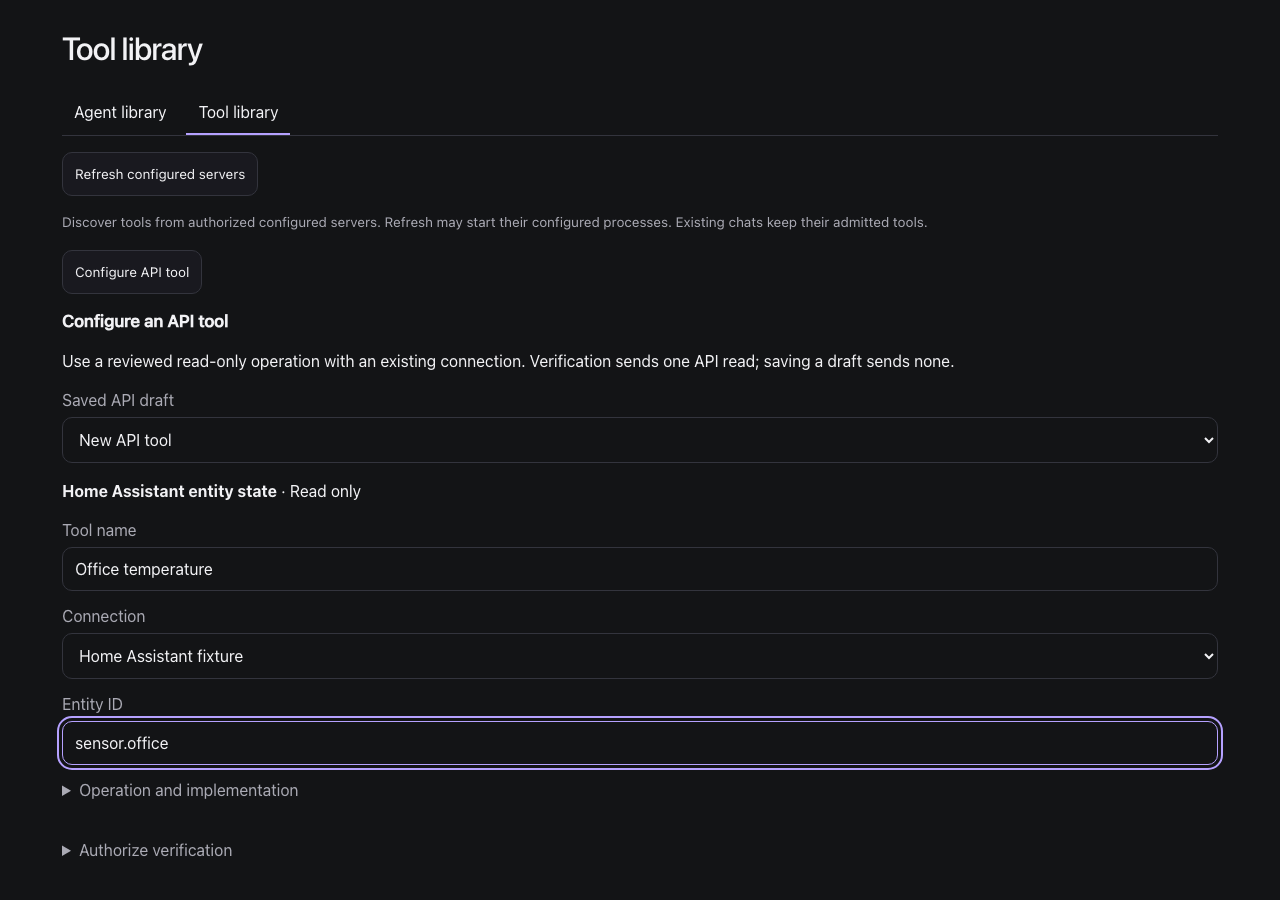
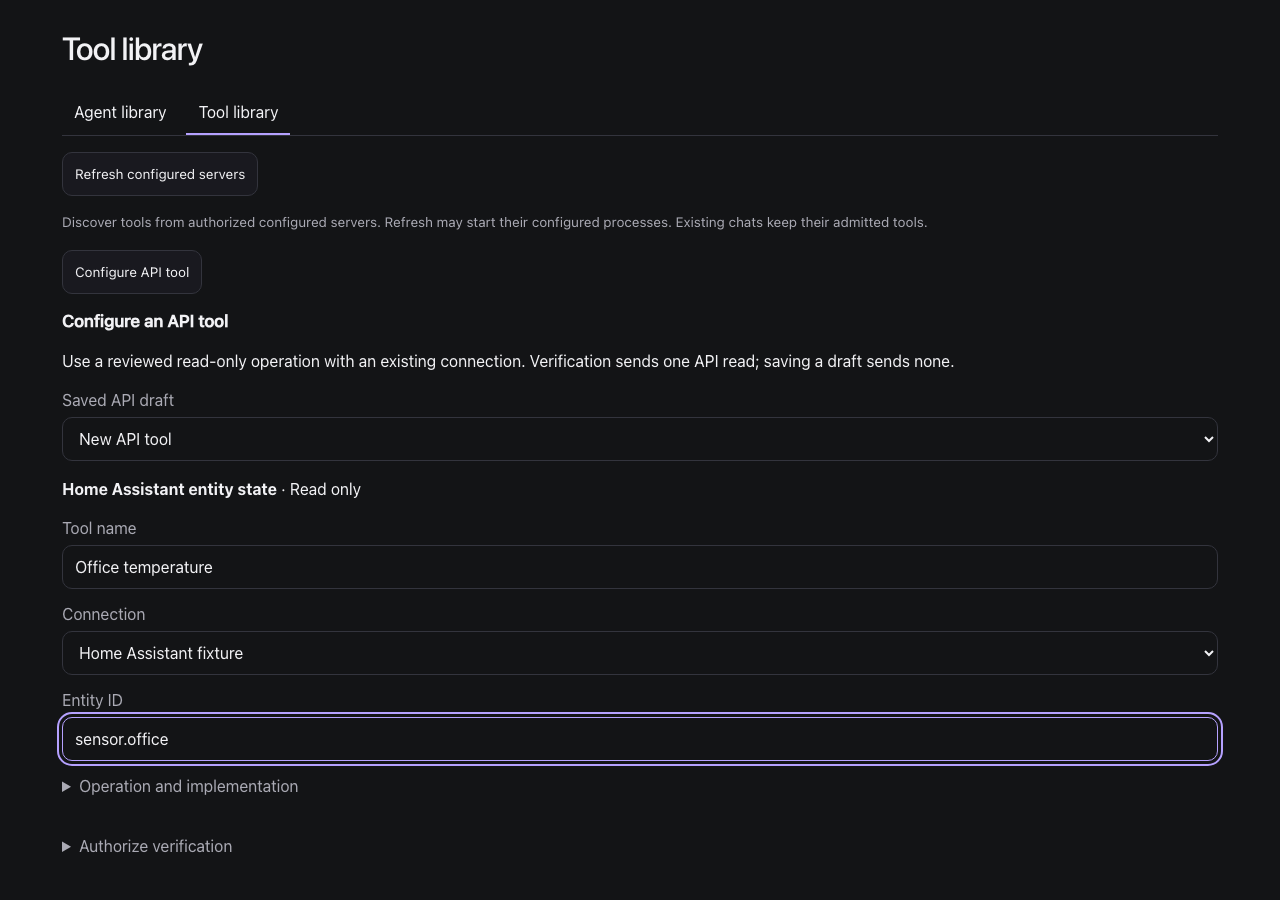
Keep API editor native selects at accessible touch height

Changed region(s): [[0.0312, 0.5289, 0.9688, 0.9022], [0.0625, 0.9333, 0.1875, 0.9644], [0.0625, 0.4667, 0.125, 0.4978]]

diff --git a/server/connections/reviewed-handler-artifacts.ts b/server/connections/reviewed-handler-artifacts.ts
@@ -10,7 +10,7 @@ export const reviewedHandlerImplementationRevision = 'v1.0.2';
 export const reviewedGithubPublicationImplementationRevision = 'v1.0.10';
 
 /** Runtime admission changes without changing existing provider policy semantics. */
-export const reviewedConnectionsRuntimeImplementationRevision = 'v1.0.263-api-tools.2';
+export const reviewedConnectionsRuntimeImplementationRevision = 'v1.0.263-api-tools.3';
 
 export function reviewedHandlerSourceFingerprint(source: string) {
   return createHash('sha256').update(source.replace(/\r\n/g, '\n')).digest('hex');
@@ -498,7 +498,7 @@ export const reviewedHandlerSourceArtifacts = Object.freeze({
   '../../frontend/src/styles/tool-library.css':
[1 lines of base64/hex data omitted]
   '../../frontend/src/styles/agent-library.css':
[2 lines of base64/hex data omitted]
 
   // Library profile identity, operator ownership and admission are reviewed runtime inputs.
   '../symposium-director-routes.ts':

diff --git a/tests/offline/api-tool-templates.spec.ts b/tests/offline/api-tool-templates.spec.ts
@@ -184,7 +184,7 @@ for (const theme of ['dark', 'light'])
     expect(await page.evaluate(() => document.documentElement.scrollWidth <= innerWidth)).toBe(
       true,
     );
-    for (const button of await editor.getByRole('button').all()) {
+    for (const button of await editor.locator('button, input, select').all()) {
       if (await button.isVisible())
         expect((await button.boundingBox())!.height).toBeGreaterThanOrEqual(44);
     }

diff --git a/frontend/src/styles/agent-library.css b/frontend/src/styles/agent-library.css
@@ -268,6 +268,7 @@
 }
 /* Native WebKit selects need an explicit height to retain touch targets. */
 .agent-library-context-recipe select,
+.agent-library-fields > label > select,
 .agent-task-fields > label > select {
   padding: var(--space-2) var(--space-3);
   height: max(var(--control-height), calc(1.5em + var(--space-2) + var(--space-2) + 2px));
